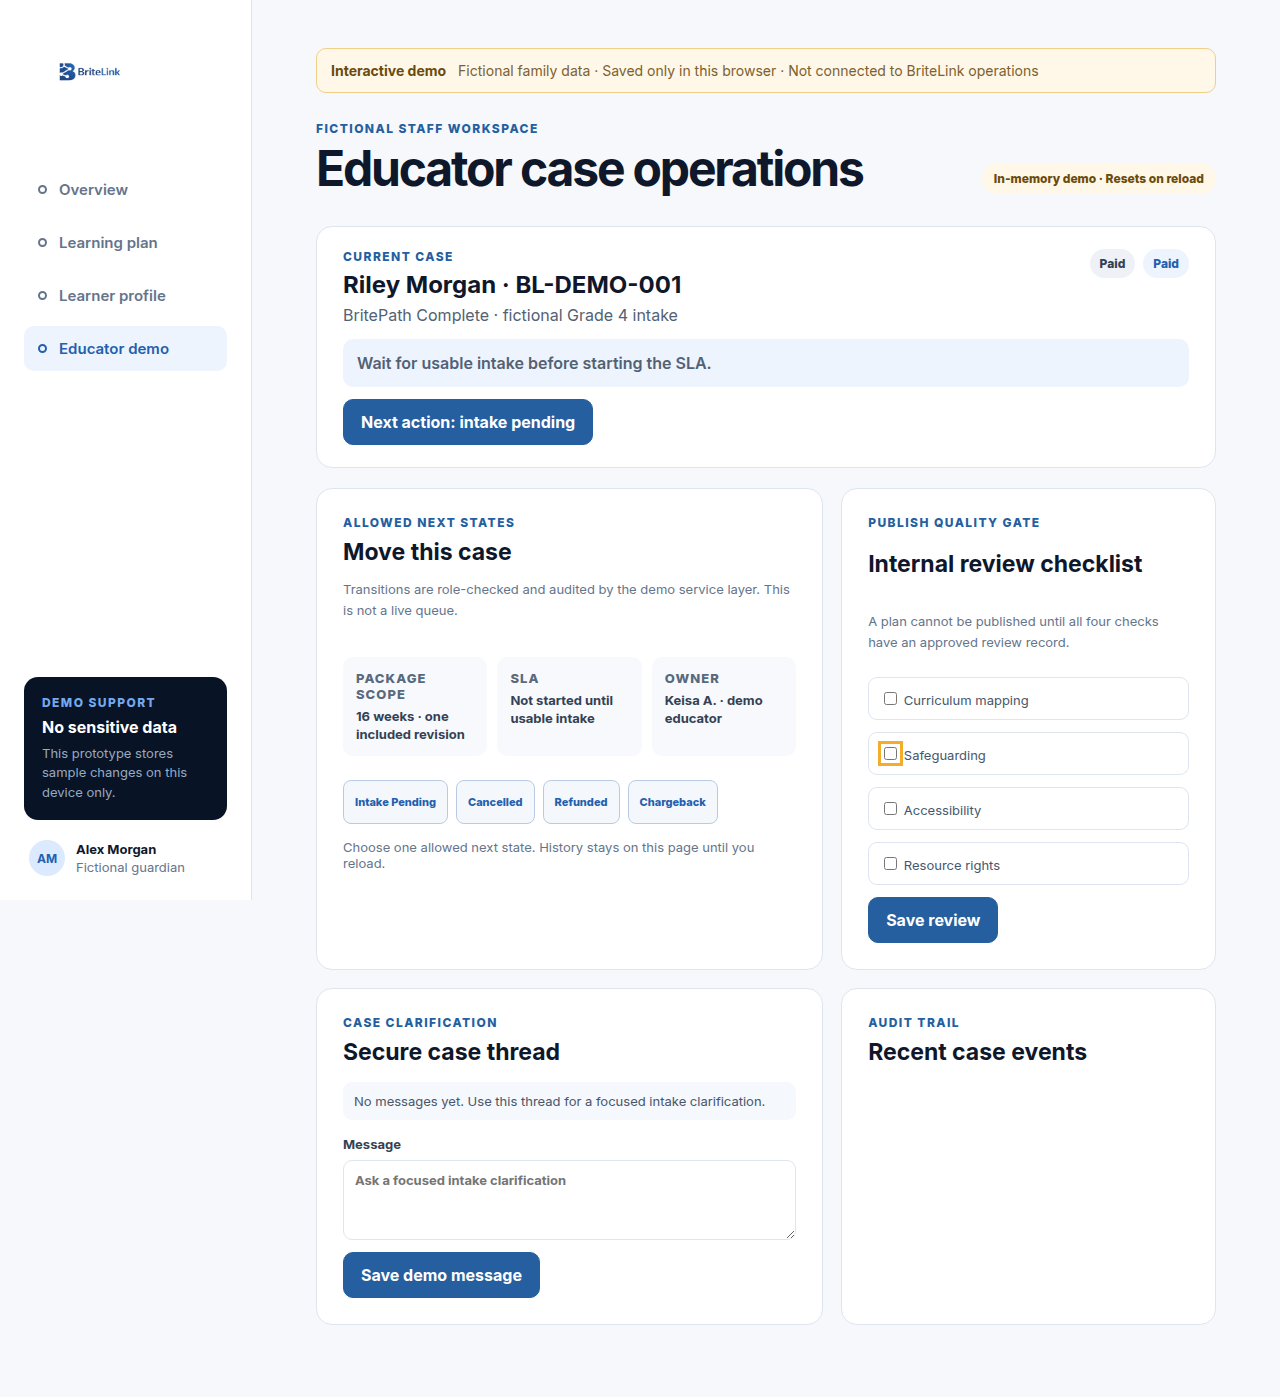
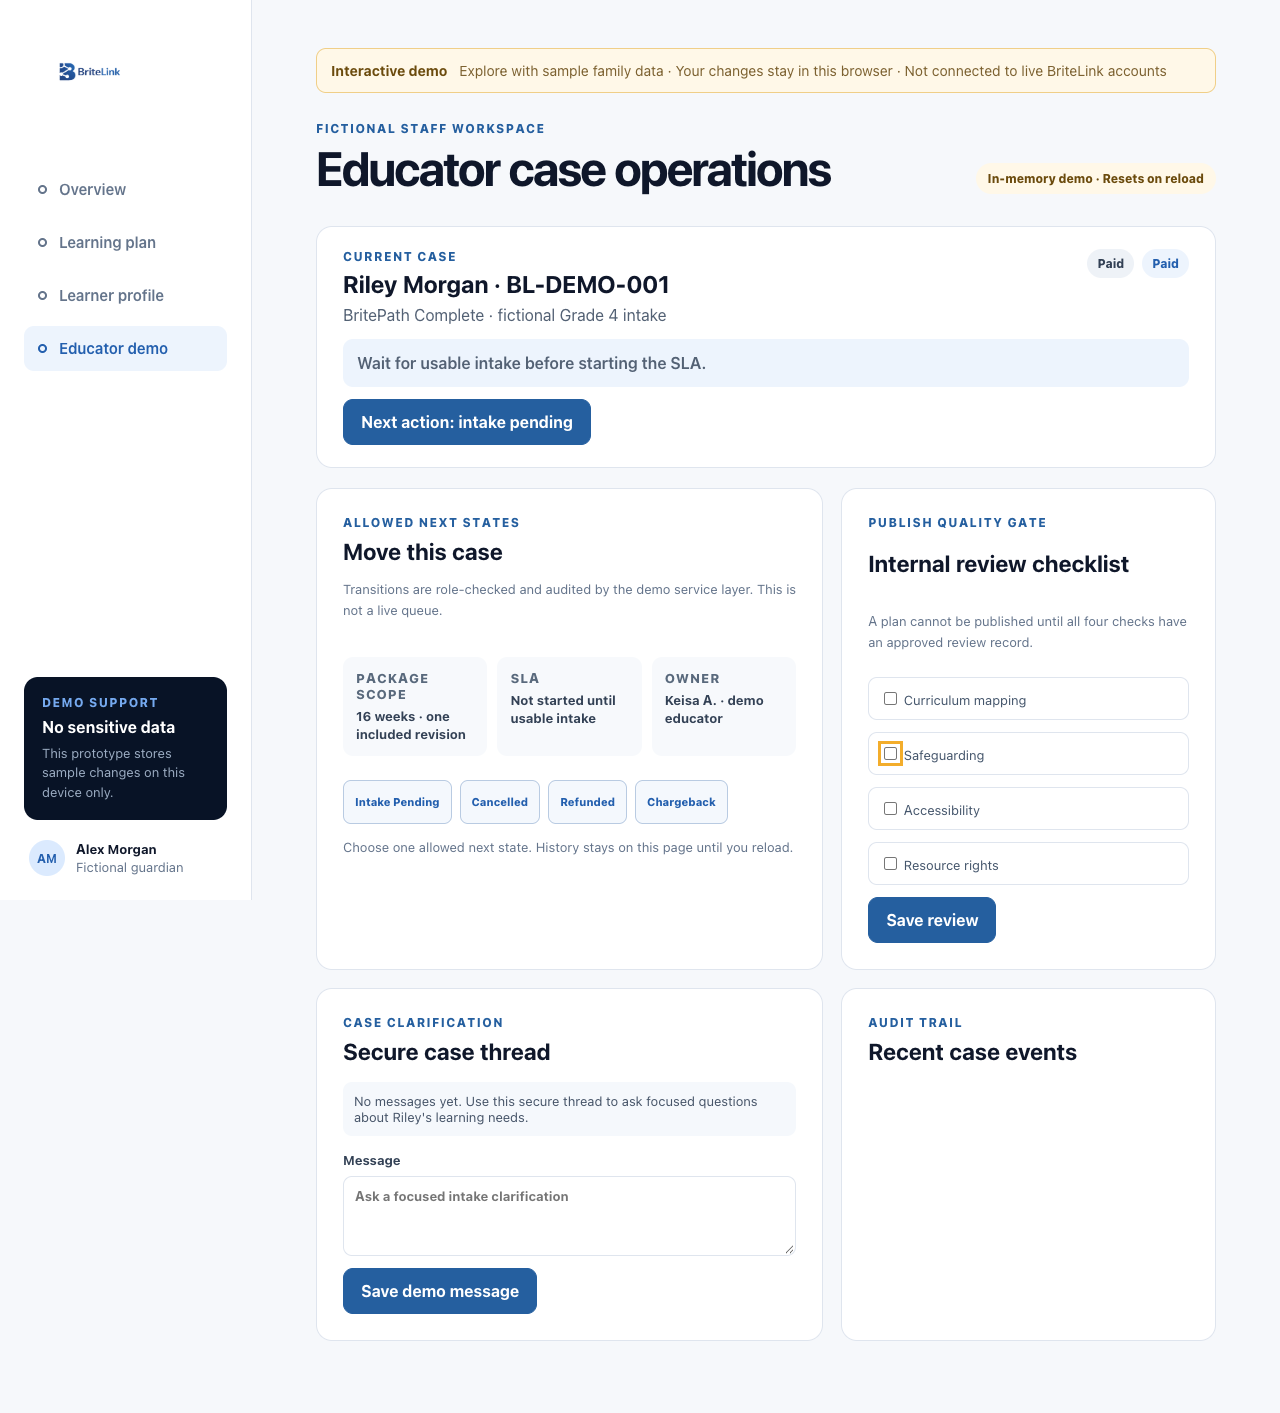
fix(web): self-host fonts, tighten CSP, restore the accessibility audit
Four real defects found by running the app rather than reading it.

1. Every page load fetched Inter from fonts.googleapis.com, which the shipped
   Content-Security-Policy blocked (style-src 'self' 'unsafe-inline', no
   fonts.googleapis.com). The browser fell back to system fonts and logged a
   CSP violation on every visit. Inter is now self-hosted under public/fonts as
   five woff2 faces, so the intended typography actually renders and no external
   origin is contacted.

2. The policy kept `style-src 'unsafe-inline'` solely for two inline-styled
   bootstrap error screens in src/main.jsx. Those now use .boot-fallback classes,
   and no inline style attributes remain anywhere in src/, so the exception is
   dropped from both nginx.conf.template and worker/index.js. That exception
   applied to the whole origin, not just the error screen.

3. scripts/a11y-audit.mjs could not run at all in a configured workspace: it
   spawns a bare vite dev server, vite loads .env.local, src/main.jsx then renders
   AuthenticatedApp, and the demo navigation the audit looks for does not exist.
   It failed on "waiting for button Learning plan". The audit now pins the
   Supabase env vars empty and runs --mode test, forcing the demo build it
   claims to measure. It passes all 12 view/viewport combinations for the first
   time, with zero violations and no horizontal overflow.

4. scripts/staff-workspace-audit.mjs had a race, not a product bug. It asserted
[…]

diff --git a/src/styles.css b/src/styles.css
@@ -1,4 +1,8 @@
-@import url('https://fonts.googleapis.com/css2?family=Inter:wght@400;500;600;700;800&display=swap');
+@font-face{font-family:Inter;font-style:normal;font-weight:400;font-display:swap;src:url('/fonts/inter-400.woff2') format('woff2')}
+@font-face{font-family:Inter;font-style:normal;font-weight:500;font-display:swap;src:url('/fonts/inter-500.woff2') format('woff2')}
+@font-face{font-family:Inter;font-style:normal;font-weight:600;font-display:swap;src:url('/fonts/inter-600.woff2') format('woff2')}
+@font-face{font-family:Inter;font-style:normal;font-weight:700;font-display:swap;src:url('/fonts/inter-700.woff2') format('woff2')}
+@font-face{font-family:Inter;font-style:normal;font-weight:800;font-display:swap;src:url('/fonts/inter-800.woff2') format('woff2')}
 .message-attachments{display:grid;gap:6px;margin:9px 0;padding:0;list-style:none}.message-attachments li{display:flex;align-items:center;justify-content:space-between;gap:8px;padding:8px;border-radius:7px;background:#eef3f8}.message-attachments li>span{display:grid;min-width:0}.message-attachments strong{overflow:hidden;color:#334155!important;font-size:10px!important;text-overflow:ellipsis;text-transform:none!important;white-space:nowrap}.message-attachments small{color:#536174;font-size:9px}.message-attachments .ghost{min-height:36px;padding:7px 9px!important;border:1px solid #b9cbe0!important;border-radius:7px!important;background:#fff!important}.live-messages input[type="file"]{display:block;width:100%;margin-top:7px;color:#45566c;font-size:11px}.live-messages label>small{display:block;margin-top:5px;color:#536174;font-weight:500;line-height:1.4}
 :root{font-family:Inter,system-ui,sans-serif;color:#0f172a;background:#f6f8fb;--navy:#081326;--blue:#3b7dd8;--line:#dfe5ee;--muted:#64748b}*{box-sizing:border-box}body{margin:0;min-width:320px;min-height:100vh;-webkit-font-smoothing:antialiased}button,textarea,input{font:inherit}button{cursor:pointer}.shell{min-height:100vh;display:grid;grid-template-columns:252px 1fr}.sidebar{position:sticky;top:0;height:100vh;padding:36px 24px 24px;background:#fff;border-right:1px solid var(--line);display:flex;flex-direction:column}.logo{width:112px;height:auto;object-fit:contain;object-position:left;margin:0 10px 52px}.sidebar nav{display:grid;gap:8px}.nav{width:100%;border:0;background:transparent;color:#64748b;text-align:left;padding:13px 14px;border-radius:10px;display:flex;align-items:center;gap:12px;font-weight:600}.nav:hover{background:#f4f7fb;color:#1e293b}.nav.active{background:#edf4fd;color:#235fae}.nav i{width:9px;height:9px;border:2px solid currentColor;border-radius:50%}.side-end{margin-top:auto;display:grid;gap:20px}.support{background:var(--navy);color:#fff;padding:18px;border-radius:14px;display:grid;gap:7px}.eyebrow{display:block;color:var(--blue);font-size:11px;font-style:normal;font-weight:800;letter-spacing:.16em;text-transform:uppercase}.support .eyebrow{color:#75a9ef}.support a{color:#fff;font-size:13px;font-weight:700;margin-top:6px}.account{display:flex;align-items:center;gap:11px;padding:0 5px}.account>b,.note>b{width:36px;height:36px;display:grid;place-items:center;border-radius:50%;background:#dbeafe;color:#235fae;font-size:12px}.account span{display:grid;gap:2px}.account strong{font-size:13px}.account small{color:var(--muted);font-size:11px}.shell>main{min-width:0;padding:48px clamp(28px,5vw,76px) 72px}.header{max-width:1180px;margin:0 auto 32px;display:flex;align-items:flex-end;justify-content:space-between;gap:24px}.header h1{margin:8px 0 0;font-size:clamp(31px,4vw,48px);letter-spacing:-.045em;line-height:1.05}.ghost,.primary{border:1px solid var(--line);background:#fff;color:#334155;padding:12px 17px;border-radius:10px;font-weight:700}.primary{background:var(--blue);color:#fff;border-color:var(--blue)}.ghost b{margin-left:8px;padding:2px 7px;border-radius:10px;background:#dbeafe;color:#235fae;font-size:11px}.hero{max-width:1180px;margin:auto;min-height:340px;position:relative;overflow:hidden;border-radius:24px;background:linear-gradient(120deg,#071224,#0c1d38 70%,#153567);color:#fff;display:flex;align-items:center;padding:54px 56px}.hero:after{content:"";position:absolute;inset:0;background-image:linear-gradient(#5a82be12 1px,transparent 1px),linear-gradient(90deg,#5a82be12 1px,transparent 1px);background-size:52px 52px}.hero>div{max-width:600px;position:relative;z-index:2}.pill{display:inline-flex;padding:7px 11px;border-radius:99px;background:#4a8ce22e;border:1px solid #75a9ef52;color:#9bc2f6;font-size:11px;font-weight:800;text-transform:uppercase;letter-spacing:.1em}.hero h2{font-size:clamp(28px,3vw,42px);letter-spacing:-.04em;line-height:1.08;margin:20px 0 14px}.hero p{max-width:560px;color:#aebbd0;line-height:1.7}.hero img{position:absolute;z-index:1;right:6%;bottom:-75px;width:270px;filter:drop-shadow(0 18px 32px #1954a559)}.progress{margin-top:28px;display:flex;align-items:center;gap:14px;max-width:410px}.progress:before{content:"";height:7px;flex:1;background:linear-gradient(90deg,#4e95ee 65%,#ffffff24 65%);border-radius:10px}.hero small{display:block;margin-top:10px;color:#7f91ac}.next{max-width:1180px;margin:46px auto 0}.next>h2{margin:9px 0 24px;font-size:25px}.cards{display:grid;grid-template-columns:repeat(3,1fr);gap:16px}.cards>*{border:1px solid var(--line);border-radius:16px;background:#fff;padding:24px;text-align:left;color:#0f172a;min-height:218px;display:flex;flex-direction:column;align-items:flex-start}.cards button{transition:.2s}.cards button:hover{transform:translateY(-2px);box-shadow:0 14px 35px #283e5a14;border-color:#b8cce8}.cards em{color:#8aa1bd;font-size:11px;font-style:normal;font-weight:800;letter-spacing:.12em}.cards h3{margin:28px 0 9px;font-size:18px}.cards p{color:var(--muted);line-height:1.6;font-size:14px}.cards strong,.cards article>span{margin-top:auto;color:#2d6fc8;font-size:13px}.cards article>span{color:#94a3b8}.plan{max-width:1180px;margin:auto;display:grid;grid-template-columns:255px 1fr;gap:20px}.weeks,.schedule,.form-shell{background:#fff;border:1px solid var(--line);border-radius:18px}.weeks{align-self:start;padding:22px 14px}.weeks>.eyebrow{padding:0 10px 14px}.weeks button{width:100%;border:0;border-top:1px solid #edf0f4;background:#fff;text-align:left;padding:15px 10px;display:grid;gap:4px;color:#64748b}.weeks button.active{background:#edf4fd;border-radius:10px;border-color:transparent;color:#235fae}.weeks small,.weeks em{font-size:11px;font-style:normal}.weeks strong{font-size:13px;color:#1e293b}.schedule{padding:30px}.schedule>header{display:flex;justify-content:space-between;gap:24px;border-bottom:1px solid var(--line);padding-bottom:24px}.schedule h2{font-size:27px;margin:8px 0}.schedule header p{color:var(--muted);font-size:13px}.count{display:grid;text-align:right;align-content:start}.count strong{color:#235fae;font-size:22px}.count small{color:var(--muted)}.days{margin:22px 0;display:grid;grid-template-columns:repeat(5,1fr);gap:8px}.days button{border:1px solid var(--line);background:#fff;border-radius:10px;padding:9px;display:grid;gap:3px;color:#64748b;font-size:11px}.days strong{color:#334155;font-size:14px}.days .active{background:#0b1b33;color:#9bc2f6;border-color:#0b1b33}.days .active strong{color:#fff}.lessons{display:grid;gap:9px}.lessons button{border:1px solid var(--line);background:#fff;border-radius:11px;padding:14px 16px;display:grid;grid-template-columns:52px 10px 1fr auto;align-items:center;gap:12px;text-align:left}.lessons button:hover{border-color:#a9c3e8}.lessons button.done{opacity:.55;background:#f8fafc}.lessons button.done span strong{text-decoration:line-through}.lessons time,.lessons em{font-size:12px;color:#64748b;font-style:normal}.tone{width:8px;height:8px;border-radius:50%;background:#3b82f6}.t1{background:#e6a735}.t2{background:#36a277}.t3{background:#8b72d6}.lessons span{display:grid;gap:4px}.lessons small{color:#64748b;font-size:11px}.lessons span strong{font-size:14px}.note{margin-top:22px;padding:18px;background:#f4f7fb;border-radius:12px;display:flex;gap:14px}.note p{margin:6px 0 0;color:#526176;line-height:1.55;font-size:13px}.form-shell{max-width:940px;margin:auto;display:grid;grid-template-columns:290px 1fr;overflow:hidden}.form-shell>aside{padding:38px 32px;background:#0b1b33;color:#fff}.form-shell>aside>span{font-size:12px;color:#75a9ef;font-weight:800;letter-spacing:.18em}.form-shell>aside h2{font-size:27px;line-height:1.18;margin:30px 0 14px}.form-shell>aside p{color:#9aabc1;font-size:14px;line-height:1.65}.steps{display:flex;gap:6px;margin-top:34px}.steps i{height:4px;flex:1;background:#4b91ea;border-radius:4px}.steps i:last-child{background:#2b405f}.form-shell form{padding:38px;display:grid;gap:28px}.form-shell label,.form-shell legend{font-size:13px;font-weight:700;color:#334155}.form-shell textarea{display:block;width:100%;margin-top:10px;min-height:92px;resize:vertical;border:1px solid var(--line);border-radius:10px;padding:13px;color:#334155;line-height:1.5;background:#fbfcfe}.form-shell fieldset{border:0;padding:0;margin:0}.form-shell legend{margin-bottom:12px}.choices{display:grid;grid-template-columns:1fr 1fr;gap:10px}.choices label{border:1px solid var(--line);padding:12px;border-radius:9px;font-weight:500;color:#526176}.choices input{accent-color:var(--blue);margin-right:8px}.form-shell form>footer{border-top:1px solid var(--line);padding-top:22px;display:flex;justify-content:space-between;align-items:center;color:#64748b;font-size:12px}.complete{color:#287a5b;background:#e7f6ef;padding:8px 12px;border-radius:99px;font-size:12px;font-weight:800}
 @media(max-width:900px){.shell{grid-template-columns:1fr}.sidebar{position:static;height:auto;padding:18px 20px;display:grid;grid-template-columns:auto 1fr}.logo{margin:0;width:76px}.sidebar nav{display:flex;justify-content:flex-end;gap:3px}.nav{width:auto;font-size:11px;padding:10px 8px;gap:6px}.nav i{width:7px;height:7px}.side-end{display:none}.shell>main{padding:28px 20px 56px}.hero{padding:36px 28px;min-height:390px}.hero img{opacity:.22;right:-20px}.cards{grid-template-columns:1fr}.plan{grid-template-columns:1fr}.weeks{display:flex;overflow:auto;gap:8px}.weeks>.eyebrow{display:none}.weeks button{min-width:150px;border:1px solid var(--line);border-radius:10px}.form-shell{grid-template-columns:1fr}.form-shell>aside{padding:28px}.choices{grid-template-columns:1fr}}@media(max-width:560px){.header{align-items:flex-start}.header h1{font-size:31px}.header .ghost{display:none}.hero{padding:30px 24px}.hero h2{font-size:30px}.hero img{width:220px}.schedule{padding:20px 14px}.schedule>header{padding:0 6px 18px}.days{gap:4px}.lessons button{grid-template-columns:42px 8px 1fr;padding:13px 10px}.lessons em{display:none}.form-shell form{padding:26px 20px}.complete{display:none}}@media(max-width:420px){.nav{font-size:10px;padding:9px 6px}.logo{width:64px}.sidebar{padding-inline:14px}.nav i{display:none}}@media print{.sidebar,.header,.weeks,.days,.skip-link,.demo-banner,.next-up{display:none}.shell{display:block}.shell>main{padding:0}.schedule{border:0}}
@@ -117,3 +121,13 @@
   .lessons button{grid-template-columns:42px 8px minmax(0,1fr)}
   .lesson-status{grid-column:3;justify-self:start}
 }
+
+/* Bootstrap recovery screens (see src/main.jsx).
+   Replaces inline styles so the CSP can drop style-src 'unsafe-inline'.
+   Deliberately standalone: these styles must not depend on the app shell
+   having loaded, because this screen renders when it has not. */
+.boot-fallback{max-width:600px;margin:80px auto;padding:40px;background:#fff;border:1px solid var(--line);border-radius:20px;text-align:center}
+.boot-fallback h1{color:#1e293b;font-size:28px;margin:0 0 16px}
+.boot-fallback p{color:var(--muted);line-height:1.65;margin:0 0 20px}
+.boot-fallback-hint{margin-bottom:24px!important}
+.boot-fallback strong{color:#334155}

diff --git a/src/main.jsx b/src/main.jsx
@@ -5,6 +5,50 @@ import { readSupabaseConfig } from "./supabase-config.js";
 import "./styles.css";
 
 const config=readSupabaseConfig();
+
+// Bootstrap failure screens.
+//
+// These cannot be React components: they run when rendering is impossible, so they
+// are written as markup. They use classes from styles.css rather than inline styles
+// for two reasons -- one visual, one security.
+//
+// Visual: inline styles here drifted from the app's own tokens. A recovery screen
+// that looks like a different product reads as "this site is broken", which is the
+// exact moment the user is already worried.
+//
+// Security: inline style attributes force `style-src 'unsafe-inline'` into the CSP,
+// and that exception applies to the whole origin, not just this screen. Since the
+// app already ships a stylesheet, removing the inline attributes lets the policy
+// drop the exception entirely. A stylesheet that fails to load is the one thing this
+// screen cannot survive, but it is same-origin and already required by the app.
+function fallbackScreen({ title, body, hint }) {
+  const root = document.getElementById("root");
+  if (!root) return;
+  root.textContent = "";
+  const shell = document.createElement("div");
+  shell.className = "boot-fallback";
+  const heading = document.createElement("h1");
+  heading.textContent = title;
+  const paragraph = document.createElement("p");
+  paragraph.textContent = body;
+  shell.append(heading, paragraph);
+  if (hint) {
+    const extra = document.createElement("p");
+    extra.className = "boot-fallback-hint";
+    const strong = document.createElement("strong");
+    strong.textContent = "Try: ";
+    extra.append(strong, document.createTextNode(hint));
+    shell.append(extra);
+  }
+  const reload = document.createElement("button");
+  reload.type = "button";
+  reload.className = "primary";
+  reload.textContent = "Reload page";
+  reload.addEventListener("click", () => location.reload());
+  shell.append(reload);
+  root.append(shell);
+}
+
 async function boot(){
   let application=<App />;
   if(config.configured){
@@ -13,15 +57,20 @@ async function boot(){
       const client=createBriteLinkSupabaseClient(config); application=<AuthenticatedApp client={client} repository={new SupabaseBriteLinkRepository(client)} privacyNoticeVersion={config.privacyNoticeVersion} />;
     }catch(error){
       console.error("Authenticated mode failed to load:", error);
-      const root = document.getElementById("root");
-      root.innerHTML = `<div style="max-width:600px;margin:80px auto;padding:40px;background:#fff;border:1px solid #dfe5ee;border-radius:20px;text-align:center;"><h1 style="color:#1e293b;font-size:28px;margin:0 0 16px;">Secure mode unavailable</h1><p style="color:#64748b;line-height:1.65;margin:0 0 20px;">The authenticated workspace could not load. This may be a configuration issue.</p><p style="color:#64748b;line-height:1.65;margin:0 0 24px;"><strong>Try:</strong> Clearing your browser cache, or running the interactive demo instead by removing the Supabase configuration.</p><button onclick="location.reload()" style="padding:12px 20px;border:1px solid #3b7dd8;border-radius:10px;background:#3b7dd8;color:#fff;font-weight:700;cursor:pointer;">Reload page</button></div>`;
+      fallbackScreen({
+        title: "Secure mode unavailable",
+        body: "The authenticated workspace could not load. This may be a configuration issue.",
+        hint: "Clearing your browser cache, or running the interactive demo instead by removing the Supabase configuration.",
+      });
       return;
     }
   }
   createRoot(document.getElementById("root")).render(<React.StrictMode>{application}</React.StrictMode>);
-}
+};
 boot().catch((error)=>{
   console.error("BriteLink bootstrap failed:", error);
-  const root = document.getElementById("root");
-  root.innerHTML = `<div style="max-width:600px;margin:80px auto;padding:40px;background:#fff;border:1px solid #dfe5ee;border-radius:20px;text-align:center;"><h1 style="color:#1e293b;font-size:28px;margin:0 0 16px;">BriteLink could not start</h1><p style="color:#64748b;line-height:1.65;margin:0 0 24px;">A critical error prevented the application from loading. Please refresh the page or contact support if the problem continues.</p><button onclick="location.reload()" style="padding:12px 20px;border:1px solid #3b7dd8;border-radius:10px;background:#3b7dd8;color:#fff;font-weight:700;cursor:pointer;">Reload page</button></div>`;
+  fallbackScreen({
+    title: "BriteLink could not start",
+    body: "A critical error prevented the application from loading. Please refresh the page or contact support if the problem continues.",
+  });
 });

diff --git a/index.html b/index.html
@@ -3,7 +3,30 @@
   <head>
     <meta charset="UTF-8" />
     <meta name="viewport" content="width=device-width, initial-scale=1.0" />
-    <title>BriteLink demo</title>
+    <title>BriteLink — Secure Family and Educator Workspace</title>
+    <meta
+      name="description"
+      content="Educator-authored learning plans for homeschool families, with a private workspace for plans, progress, and secure messaging with your educator."
+    />
+    <meta name="robots" content="noindex, nofollow" />
+    <meta name="theme-color" content="#081326" />
+    <link rel="icon" href="/favicon.ico" sizes="any" />
+    <link rel="icon" type="image/png" href="/favicon-64.png" />
+    <link rel="apple-touch-icon" href="/favicon-64.png" />
+    <!--
+      noindex while this is a private beta behind invited accounts. Remove the robots
+      meta tag AND public/robots.txt's Disallow when the product opens publicly; until
+      then allowing crawlers would index a sign-in wall.
+    -->
+    <meta property="og:type" content="website" />
+    <meta property="og:site_name" content="BriteLink" />
+    <meta property="og:title" content="BriteLink — Secure Family and Educator Workspace" />
+    <meta
+      property="og:description"
+      content="Educator-authored learning plans for homeschool families, with a private workspace for plans, progress, and secure messaging with your educator."
+    />
+    <meta property="og:image" content="/assets/britelink-logo.png" />
+    <meta name="twitter:card" content="summary" />
   </head>
   <body>
     <div id="root"></div>

diff --git a/worker/index.js b/worker/index.js
@@ -1,5 +1,7 @@
 const SECURITY_HEADERS = {
-  "Content-Security-Policy": "default-src 'self'; connect-src 'self'; img-src 'self' data:; style-src 'self' 'unsafe-inline'; script-src 'self'; font-src 'self' data:; object-src 'none'; base-uri 'self'; frame-ancestors 'none'; form-action 'self'",
+  // style-src and font-src have no 'unsafe-inline' and no external origin: the bootstrap
+  // error screens use .boot-fallback classes, and Inter is self-hosted under /fonts.
+  "Content-Security-Policy": "default-src 'self'; connect-src 'self'; img-src 'self' data:; style-src 'self'; script-src 'self'; font-src 'self'; object-src 'none'; base-uri 'self'; frame-ancestors 'none'; form-action 'self'",
   "Permissions-Policy": "camera=(), microphone=(), geolocation=(), payment=()",
   "Referrer-Policy": "strict-origin-when-cross-origin",
   "X-Content-Type-Options": "nosniff",
